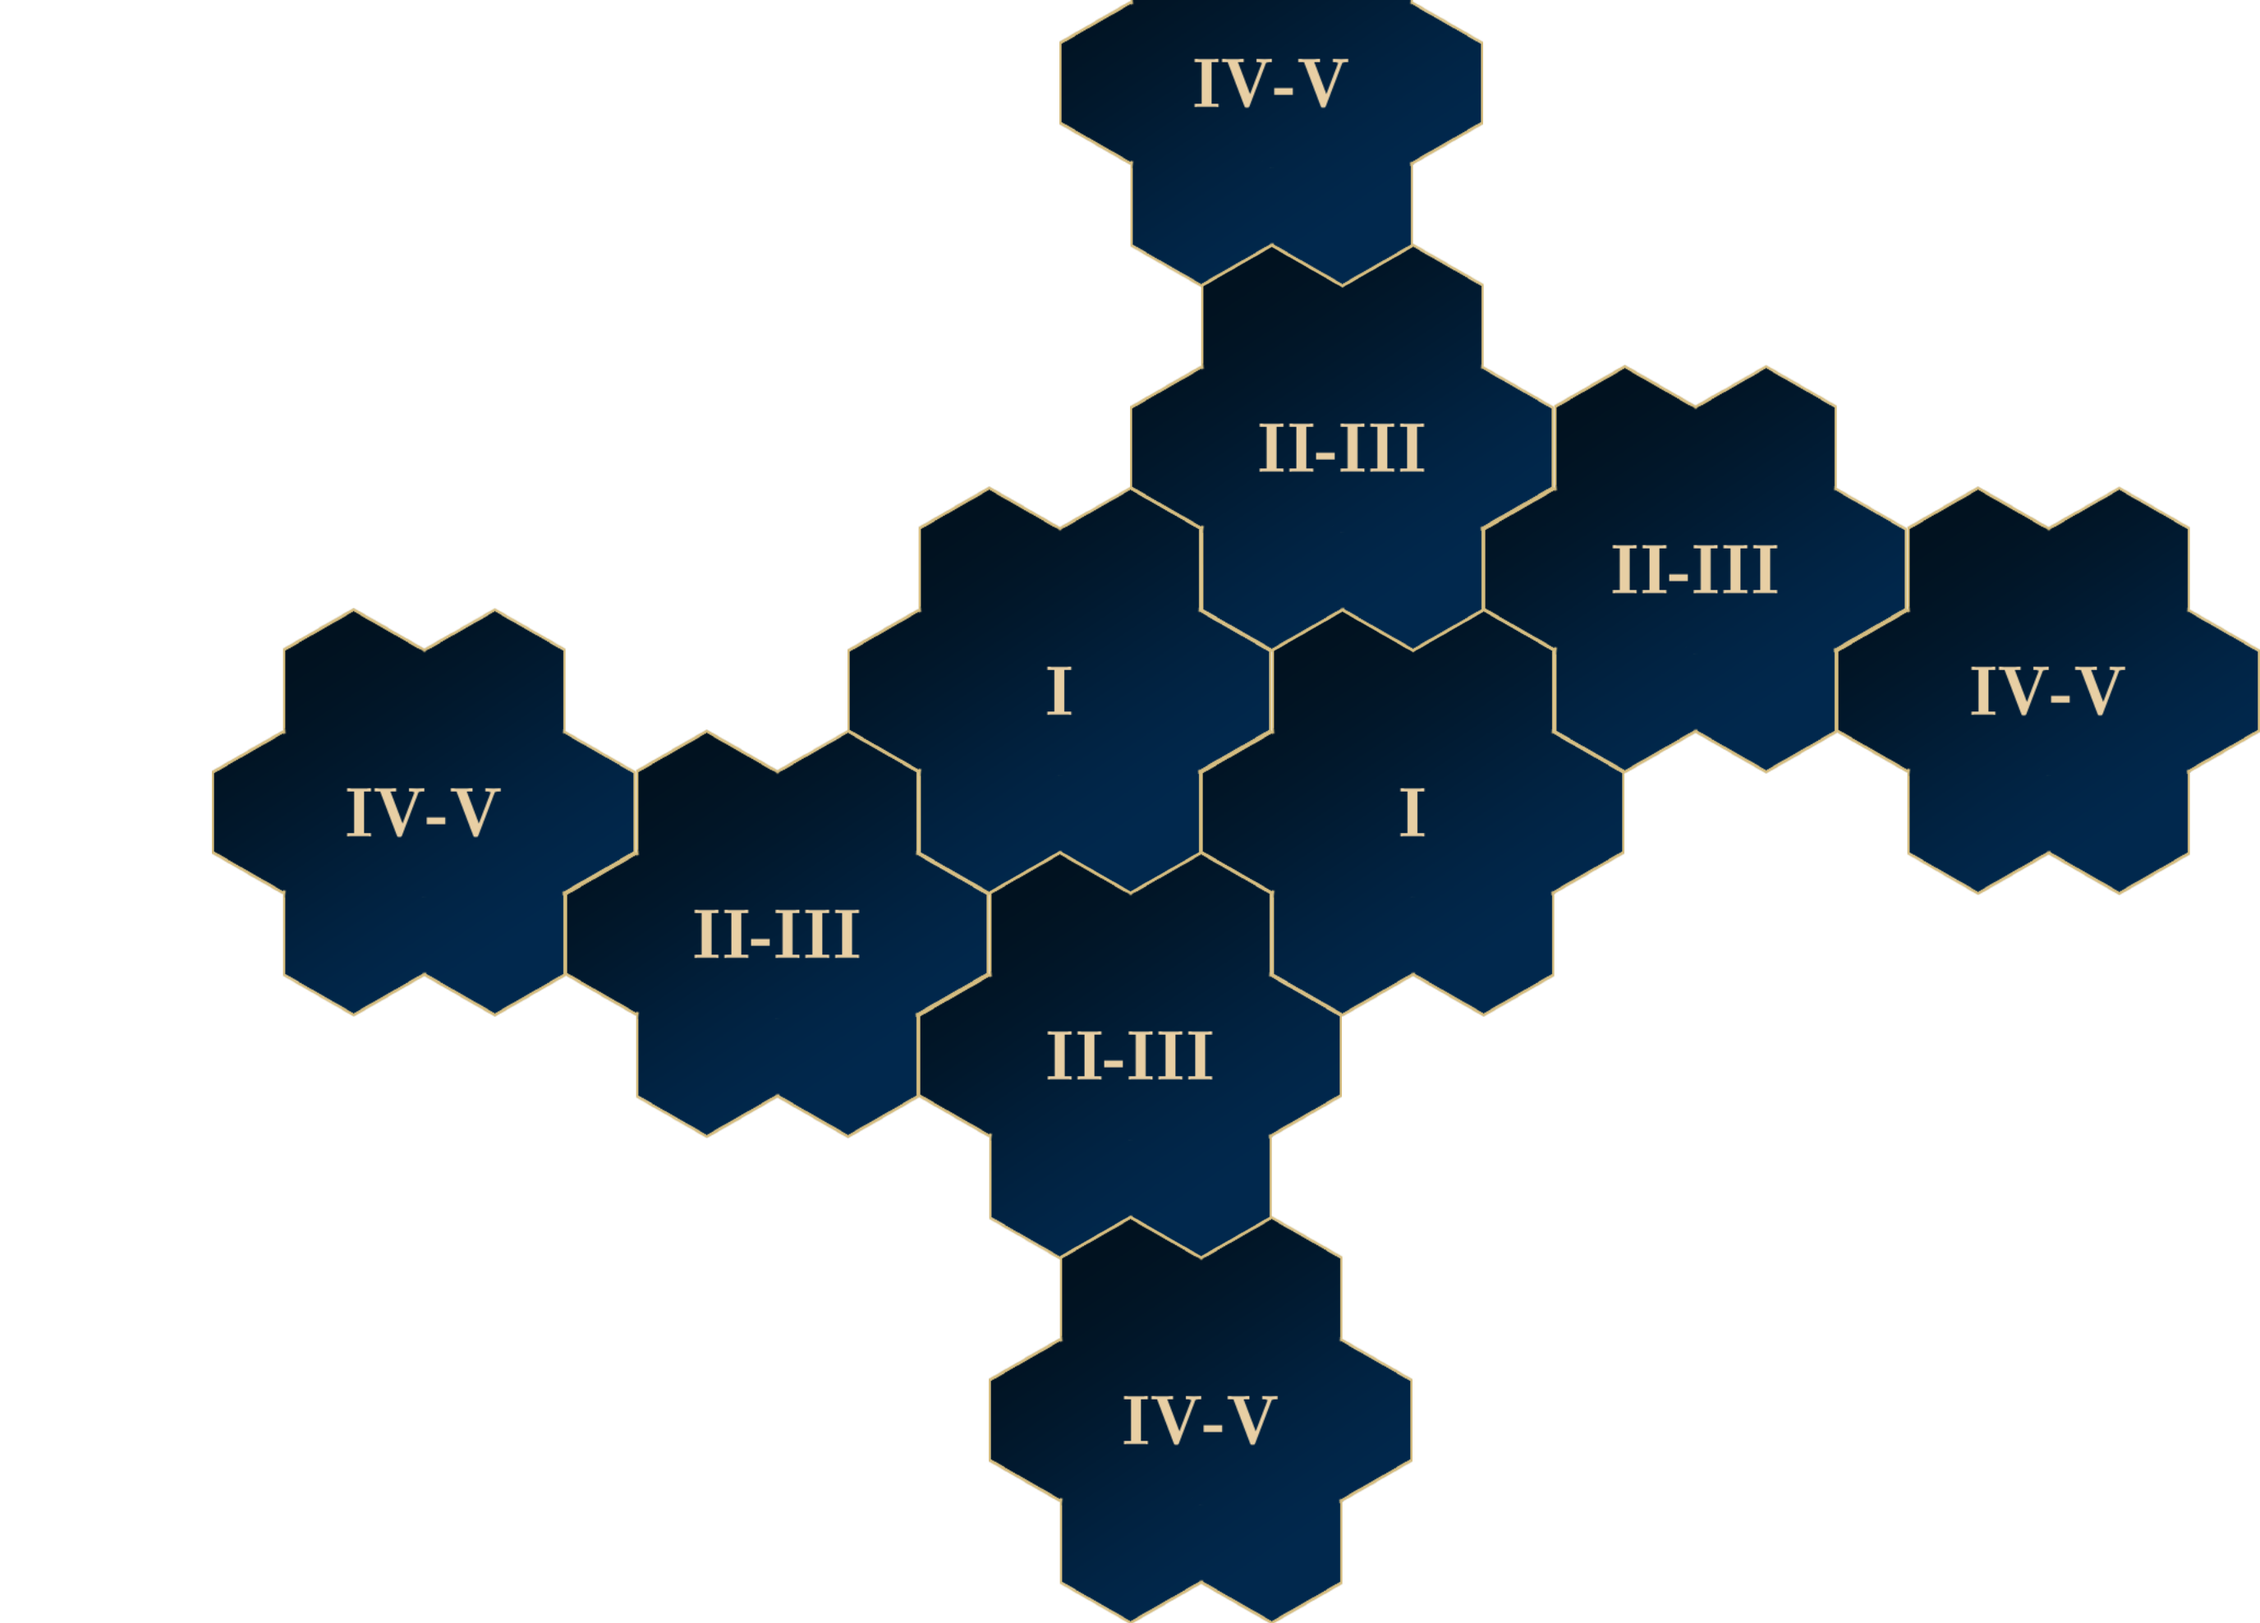
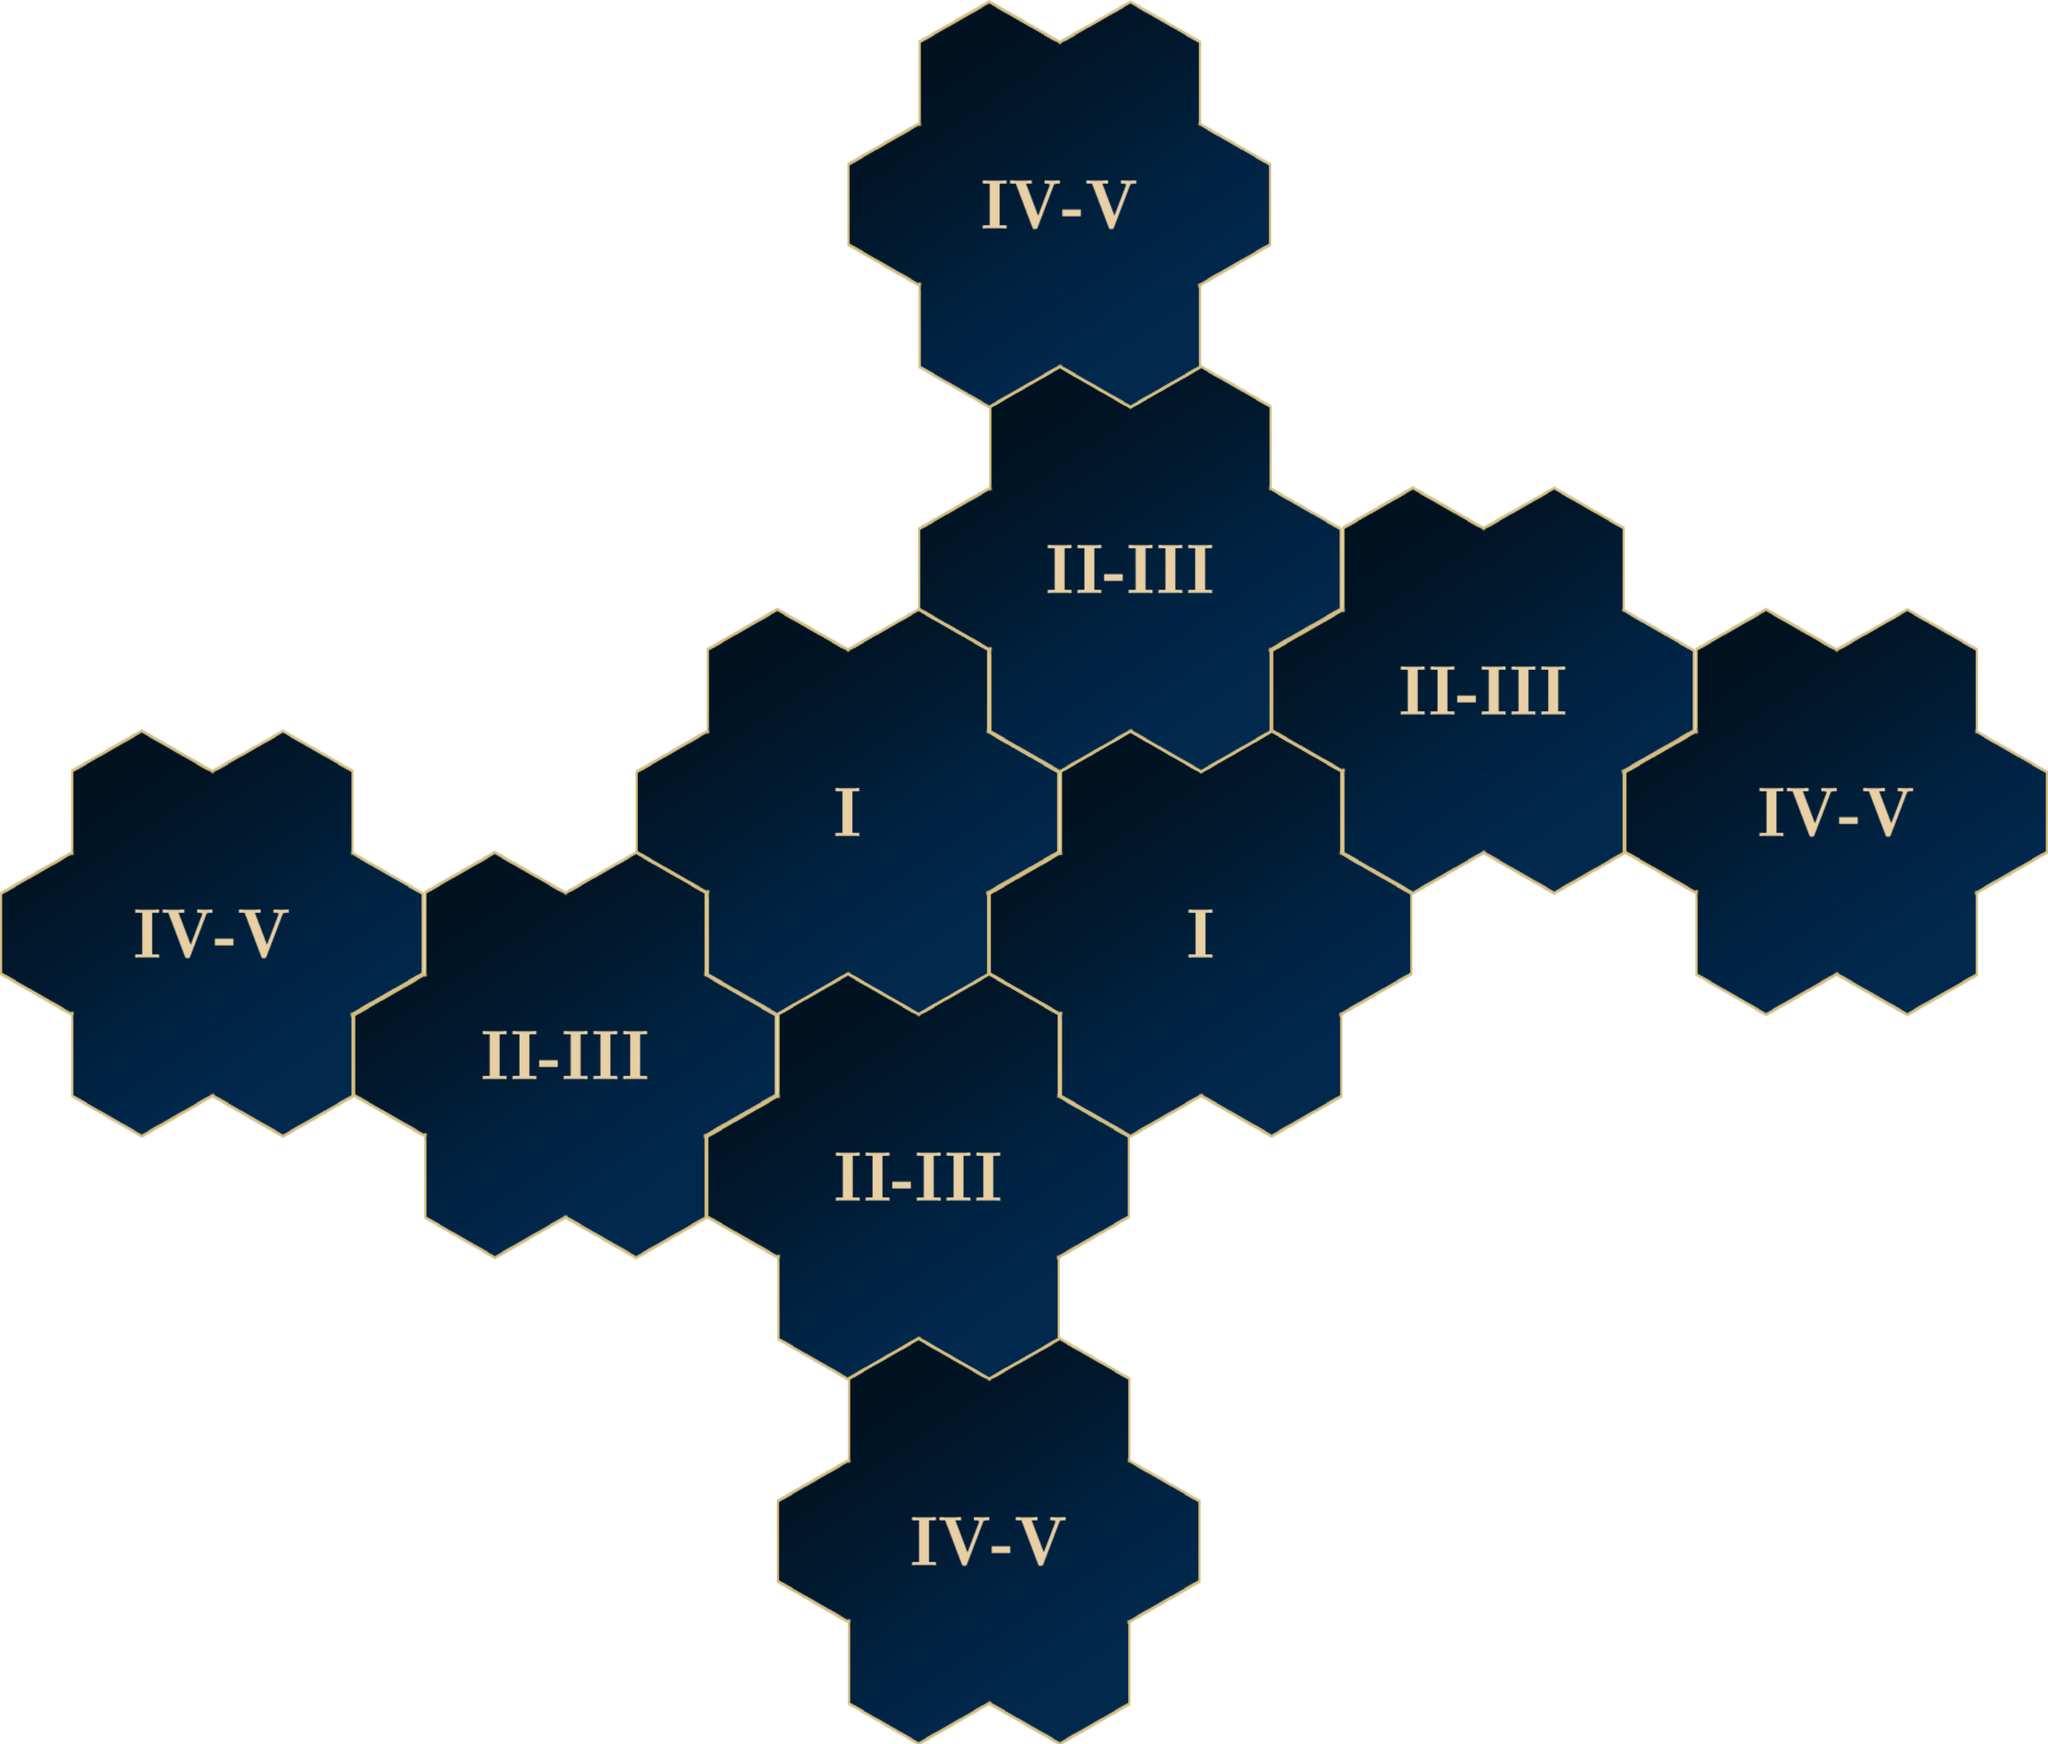
Review fixes

diff --git a/sections/sentinels.tex b/sections/sentinels.tex
@@ -3,6 +3,10 @@
 
 \begin{multicols*}{2}
 
+\textbf{Author:} silence70011
+
+\textbf{Source:} \href{https://discord.com/channels/740870068178649108/1233112440322002964/1233112440322002964}{Archon Studio Discord}
+
 \subsection*{\MakeUppercase{Scenario length}}
 
 This scenario plays out over 12 rounds.
@@ -21,9 +25,7 @@ This scenario plays out over 12 rounds.
 
 \textbf{Town Buildings:} \svg{bronze} Dwelling, Citadel
 
-\textbf{Map Tile Pool:} 
-    Each player takes 1 random Near Map Tile (IV-V) and 1 random Far Map Tile (II-III)
-    that can be placed during the game.
+\textbf{Map Tile Pool:} Each player takes 1 random Near Map Tile (IV-V) and 1 random Far Map Tile (II-III).
 
 \textbf{Bonus:} Search (2) the Artifact Deck 
 
@@ -33,7 +35,7 @@ Take the following Map tiles and set them up as shown in the scenario map layout
 
 \textbf{2 × Starting Map tile (I)}
 \begin{itemize}
-    \item Pick Starting Tiles of your chosen factions.
+    \item Starting Tiles of your chosen factions.
     \item Ignore their yellow borders.
 \end{itemize}
 
@@ -174,10 +176,6 @@ devastation of these lands.
   \end{tabularx}
 }
 
-\subsection*{\MakeUppercase{Credits}}
-
-\textbf{Author:} silence70011
-
-\textbf{Source:} \href{https://discord.com/channels/740870068178649108/1233112440322002964}{Community Maps in Archon Studio Discord}
+\center\includegraphics[width=0.6\paperwidth]{\_assets/maps/sentinels.png}
 
 \footnotetext[1]{Always 1 unit of Azure Dragons (starting units of Boss Army). The rest is random\label{azure}.}
